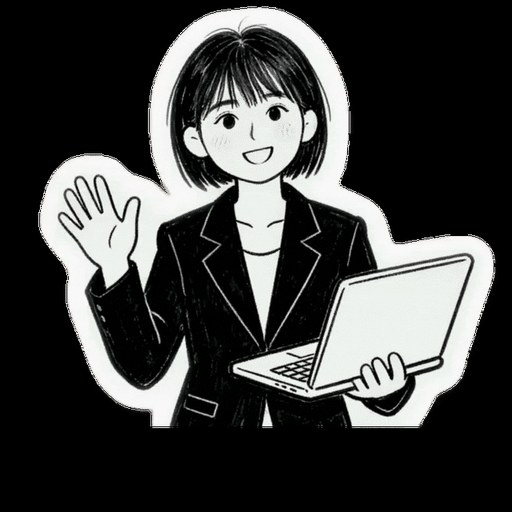
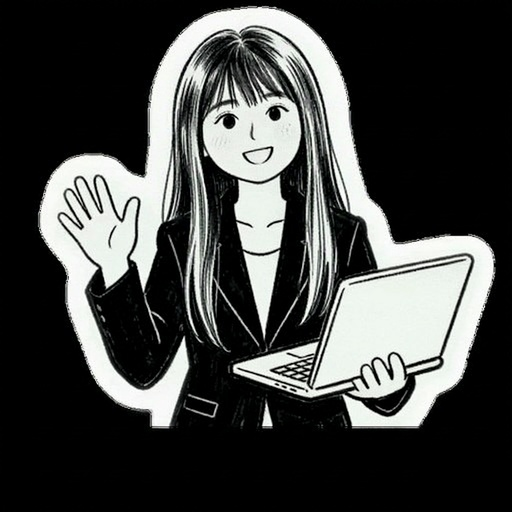
Skills wall defaults to Chinese; long-hair desk photo; refresh resume cover
- office.ts: currentLang now starts as 'zh' (React default), and Home
  re-syncs the scene language once ready — the cork wall's canvas
  textures used to boot in English until the first manual toggle
- desk photo frame: home.jpg redrawn as a long-haired girl (image-to-
  image edit, same B&W manga style, watermark area cleaned)
- resume-cover.jpg re-rendered from the current resume PDF at 1600px —
  the old 800px cover from Sep 7 was still showing the previous resume

diff --git a/src/pages/Home.tsx b/src/pages/Home.tsx
@@ -49,6 +49,13 @@ export default function Home() {
     return () => window.clearTimeout(t);
   }, [ready]);
 
+  // once the scene is up, sync its canvas labels with the React-side language
+  // (the 3D wall generates its textures before any toggle happens)
+  useEffect(() => {
+    if (ready) handlesRef.current?.setLang(lang);
+    // eslint-disable-next-line react-hooks/exhaustive-deps
+  }, [ready]);
+
   const setMusic = useCallback((playing: boolean) => {
     handlesRef.current?.setMusic(playing);
     if (playing) void bgmRef.current?.play().catch(() => {});

diff --git a/src/three/office.ts b/src/three/office.ts
@@ -454,7 +454,7 @@ export function createOffice(canvas: HTMLCanvasElement, cb: OfficeCallbacks): Of
   // ----------------------------------------------------------
   // Left wall: corkboard — skill-tag modules + vibe-coding work
   // ----------------------------------------------------------
-  let currentLang: Lang = "en";
+  let currentLang: Lang = "zh"; // must match Home.tsx's default — the wall starts in Chinese
 
   const wallG = new THREE.Group();
   wallG.position.set(-W / 2 + 0.03, 2.55, -0.6);
